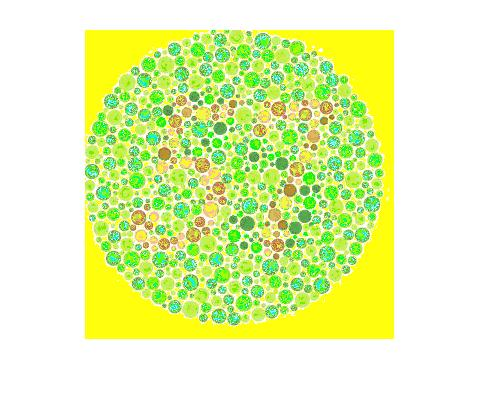
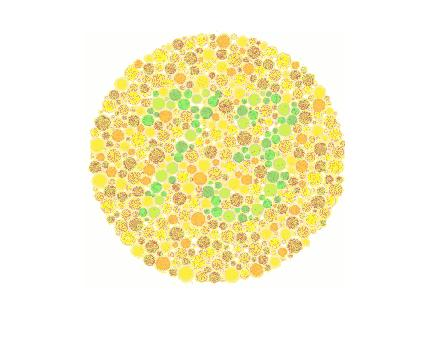
27 juli 2018

diff --git a/on1/kmeansA.m b/on1/kmeansA.m
@@ -8,7 +8,7 @@
 baris = size(asli,1);
 kolom = size(asli,2);
 asli=double(asli);
-Kl = 8;
+Kl = 20;
 
 
 %%
@@ -24,34 +24,38 @@ Kl = 8;
 
 %%
 %centroid tetap dengan k = 8
-centro = zeros(3,Kl);
-first = -17;
-for i=1:Kl
-    first = first+32;
-    centro(1:3,i)=first;
-end
+% centro = zeros(3,Kl);
+% first = -17;
+% for i=1:Kl
+%     first = first+32;
+%     centro(1:3,i)=first;
+% end
 
 %%
 %centro awal ditentukan
-% centro(1,1) = 255;
-% centro(2,1) = 0;
-% centro(3,1) = 0;
-% 
-% centro(1,2) = 0;
-% centro(2,2) = 255;
-% centro(3,2) = 0;
-% 
-% centro(1,3) = 0;
-% centro(2,3) = 0;
-% centro(3,3) = 255;
-% 
-% centro(1,4) = 0;
-% centro(2,4) = 0;
-% centro(3,4) = 0;
-% 
-% centro(1,5) = 255;
-% centro(2,5) = 255;
-% centro(3,5) = 255;
+centro(1:3,1) = [230;25;75];
+centro(1:3,2) = [60, 180, 75];
+centro(1:3,3) = [255, 225, 25];
+centro(1:3,4) = [0, 130, 200];
+centro(1:3,5) = [245, 130, 48];
+centro(1:3,6) = [145, 30, 180];
+centro(1:3,7) = [70, 240, 240];
+centro(1:3,8) = [240, 50, 230];
+centro(1:3,9) = [210, 245, 60];
+centro(1:3,10) = [250, 190, 190];
+centro(1:3,11) = [0, 128, 128];
+centro(1:3,12) = [230, 190, 255];
+centro(1:3,13) = [170, 110, 40];
+centro(1:3,14) = [255, 250, 200];
+centro(1:3,15) = [128, 0, 0];
+centro(1:3,16) = [170, 255, 195];
+centro(1:3,17) = [128, 128, 0];
+centro(1:3,18) = [255, 215, 180];
+centro(1:3,19) = [0, 0, 128];
+centro(1:3,20) = [128, 128, 128];
+centro(1:3,21) = [255, 255, 255];
+centro(1:3,22) = [0, 0, 0];
+
 % vwx=centro;
 centro=double(centro);
 % abc= zeros(3,Kl);

diff --git a/on1/main2coba.m b/on1/main2coba.m
@@ -1,19 +1,21 @@
 close all;
 clear;
-namfil = {'g1-7.jpg','g2-6.jpg','g3-26.jpg', 'g4-15.jpg', 'g5-6.jpg','g6-73.jpg', 'g7-5.jpg', 'g8-16.jpg', 'g9-45.jpg','g10-12.jpg','g11-29.jpg','g12-8.jpg', 'g13-74.jpg', 'g14-57.jpg','g15-2.jpg'};
-ac = cell(15,1);
+namfil = {'bunga3.jpg'};
+%'g1-7.jpg','g2-6.jpg','g3-26.jpg', 'g4-15.jpg', 'g5-6.jpg','g6-73.jpg', 'g7-5.jpg', 'g8-16.jpg', 'g9-45.jpg','g10-12.jpg','g11-29.jpg','g12-8.jpg', 'g13-74.jpg', 'g14-57.jpg','g15-2.jpg'};
+ss = size(namfil,1);
+ac = cell(ss,1);
 for i=1:size(namfil,2) 
     d = {imread(namfil{i})};
     ac(i) = d;
 end
-centrod = cell(15,1);
-labeld = cell(15,1);
-waktu = zeros(15,1);
-recolor1 = cell(15,1);
-recolor2 = cell(15,1);
-kotakre1 = cell(15,1);
-kotakre2 = cell(15,1);
-for im=1:15
+centrod = cell(ss,1);
+labeld = cell(ss,1);
+waktu = zeros(ss,1);
+recolor1 = cell(ss,1);
+recolor2 = cell(ss,1);
+kotakre1 = cell(ss,1);
+kotakre2 = cell(ss,1);
+for im=1:1
     im
     tic
     image = [];

diff --git a/on1/kmeans2.m b/on1/kmeans2.m
@@ -115,7 +115,7 @@ while(s ~= 0 || index0~=0)
             [urut, index] = sort(hasil);
             %f = hasil(index(1));
             %f = find(hasil(1,:)==min(hasil));
-            if(hasil(index(1)) < 50)
+            if(hasil(index(1)) < 75)
                 label(i, j) = index(1);
 %             else 
 %                 label(i,j)=9;
